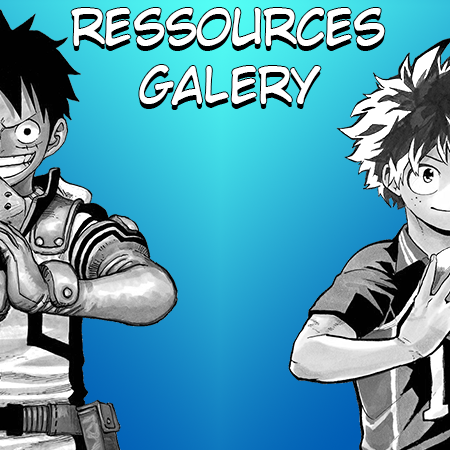
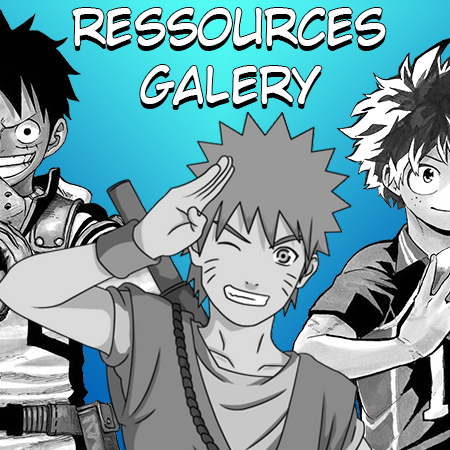
Add Galery
Adding galery images/setup

diff --git a/assets/js/pages/Homepage.js b/assets/js/pages/Homepage.js
@@ -19,23 +19,28 @@ class Homepage extends Component {
             <>
             <div className="container">
                 <div className={"row mb-5 mt-5"}>
-                    <div id="block1" className={`col-lg-3 col-md-6 mb-4 ${classes.center}`}>
+                    <div id="block1" className={`col-lg-4 col-md-6 mb-4 ${classes.center}`}>
                         <Link to={"/new-manga"}>
                             <img src="/images/create.png" className={classes.hovereffect}/>
                         </Link>
                     </div>
-                    <div id="block4" className={`col-lg-3 col-md-6 mb-4 ${classes.center}`}>
+                    <div id="block4" className={`col-lg-4 col-md-6 mb-4 ${classes.center}`}>
                         <img src="/images/make.png" className={classes.hovereffect}/>
                     </div>
-                    <div id="block2" className={`col-lg-3 col-md-6 mb-4 ${classes.center}`}>
+                    <div id="block2" className={`col-lg-4 col-md-6 mb-4 ${classes.center}`}>
                         <Link to={"/mangas"}>
                             <img src="/images/discover.png" className={classes.hovereffect}/>
                         </Link>
                     </div>
-                    <div id="block3" className={`col-lg-3 col-md-6 mb-4 ${classes.center}`}>
+                    <div id="block3" className={`col-lg-4 col-md-6 mb-4 ${classes.center}`}>
                         <Link to={"/ressources/submissions"}>
                             <img src="/images/submit.png" className={classes.hovereffect}/>
                         </Link>
+                    </div>
+                    <div id="block5" className={`col-lg-4 col-md-6 mb-4 ${classes.center}`}>
+
+                            <img src="/images/galery.png" className={classes.hovereffect}/>
+
                     </div>
 
                 </div>

diff --git a/assets/js/styles/homepage.js b/assets/js/styles/homepage.js
@@ -7,7 +7,7 @@ export const homepage = () => {
 
       hovereffect : {
         width:"100%",
-        maxWidth: "400px",
+        maxWidth: "375px",
         cursor:"default",
         "&:hover":{
           MsTransform:"scale(1.1)",
